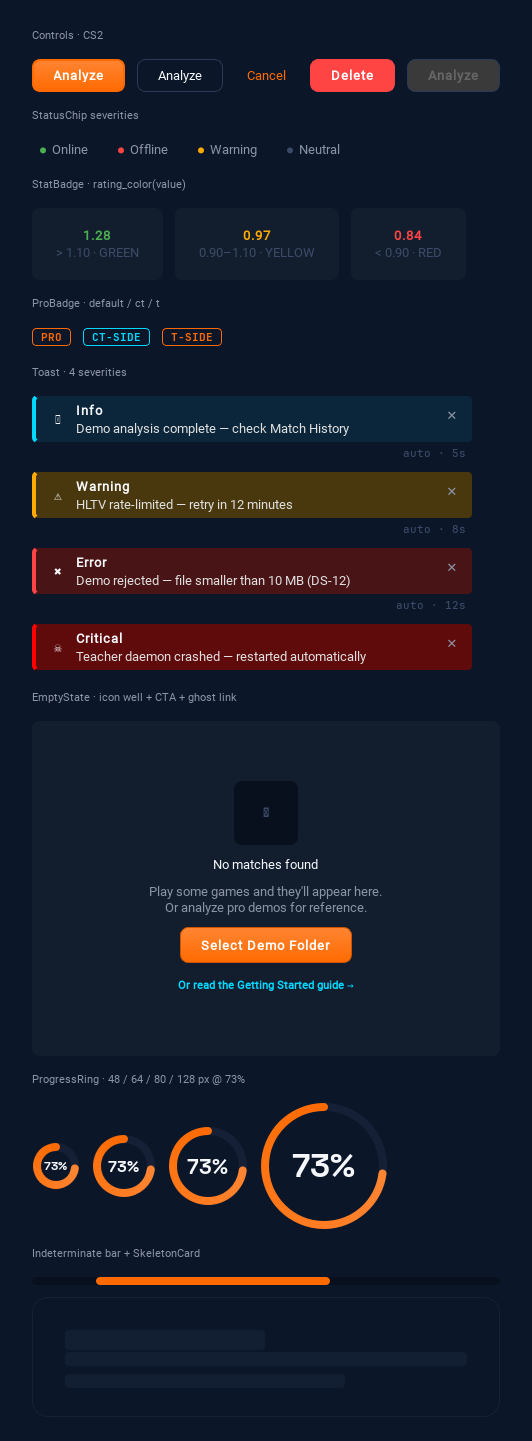
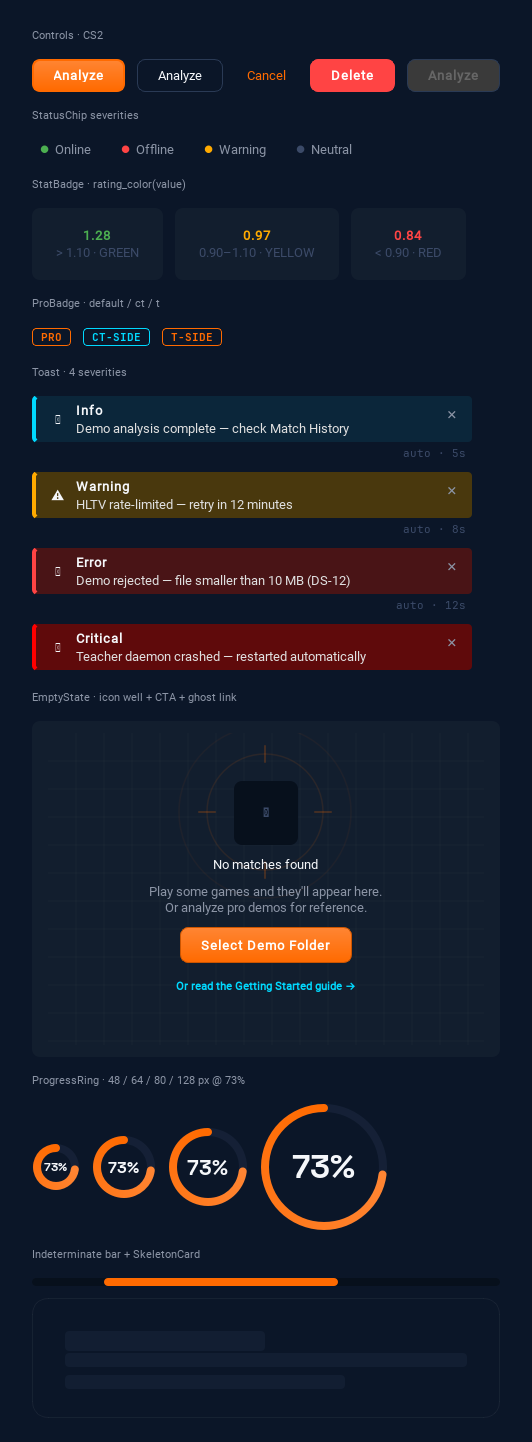
docs: aesthetic round 1 — note 20, D-31..D-33, render atlas regenerated

diff --git a/docs/doctrine/notes/20-aesthetic-round1.md b/docs/doctrine/notes/20-aesthetic-round1.md
@@ -1,0 +1,124 @@
+# Aesthetic round 1 — workbench decisions executed (2026-08-29)
+
+Mission: the operator answered the design workbench's six open questions
+(claude.ai artifact, comment loop) plus a font-bug report and a tray/slideshow
+feature request. Method: one 5-reader parallel deep-study (fonts, slideshow+
+tray, charts+empty states, ML architecture, repaint scope), then six PRs, each
+through the full gate. Final state: **2719 passed / 0 failed** on merged main.
+
+## Decisions as recorded
+
+| Q | Decision | Outcome |
+|---|---|---|
+| Q1 frost rollout | RESERVED — keep meaning | no code change, recorded |
+| Q2 accent discipline | keep loose | no code change, recorded |
+| Q3 chart voice | accent-led | PR #92 |
+| Q4 empty states | more character | PR #93 |
+| Q5 design frames | repaint to live palette | PR #96 (supersedes D-30 option B) |
+| Q6 fonts/slideshow/tray | fix + build | PRs #91, #94, #95 |
+
+## D-31 — the font system lied three ways (FIXED, PR #91)
+
+The report "only one font actually works" had three verified causes:
+
+1. **Picker saved labels, not family names**: "New Hope"/"CS Regular" match no
+   registered family (real embedded names: `NewHope`, `Counter-Strike`) — Qt
+   silently walked the fallback chain to Segoe UI, so both picks rendered
+   identically. Fixed at the picker + a legacy-alias normalizer for persisted
+   configs.
+2. **Impostor font file**: `PHOTO_GUI/JetBrainsMono-Regular.ttf`'s name table
+   said `DejaVu Sans Mono` (byte-verified). Replaced with the genuine
+   JetBrains Mono v2.304 Regular (official release, OFL-1.1, same source as
+   the other bundled weights) in both PHOTO_GUI and assets/fonts.
+3. **Dist shipped no design fonts**: `cs2_analyzer_win.spec` never bundled
+   `assets/fonts` — packaged apps fell back to Consolas/Roboto everywhere;
+   only YUPIX (pixel font) looked different. Added to datas.
+
+Lockstep tests pin all three (name-table impostor detector included).
+Registered, NOT yet fixed (part of D-32): the FONT_TYPE setting only reaches
+the generic QWidget rule — hardcoded QSS families and QPainter text ignore
+it; the appended font-size rule overrides Typography point sizes app-wide.
+
+## D-32 — the Windows packaging gap (REGISTERED, fonts part fixed)
+
+From the ML-architecture read: `cs2_analyzer_win.spec` ships **no .pt
+checkpoints, no hltv_metadata.db, no FAISS index, no coach-book dir** — the
+factory-bundle fallback in `persistence.load_nn` points at bundle paths that
+never exist, so ALL neural features silently no-op on a fresh install.
+`database.db` is a monolith mixing pro training rows with user tables, so
+"ship without the training DB" concretely means shipping a pruned monolith
+(an `.empty_backup` exists but nothing wires it). Decision needed at
+packaging time — registered, not unilaterally changed.
+
+## D-33 — the coaching chain is unwired end-to-end (REGISTERED; extends D-26)
+
+Beyond D-26's `generate_new_insights` orphan, the read confirmed the WHOLE
+insight-producing chain has no production caller: `run_ml_pipeline` (only
+caller: `ingest_user_demos`, itself uncalled), `CoachingService` (
+`get_coaching_service()` never invoked), `ExperienceBank
+.extract_experiences_from_demo` (CoachingExperience stays empty),
+`RoleThresholdStore.learn_from_pro_data`/`persist_to_db` (role classifier in
+permanent cold start → the role insight never fires), CSVMigrator seeding
+(`__main__`-only → role head Phase 5 always skips). Also: the maturity
+ladder counts TRAINING CYCLES, not demos (`total_matches_processed`
+increments once per full cycle — it can effectively never reach the
+MATURE=200 tier). The Qt coach screen reads `CoachingInsight` rows nothing
+currently writes. This is THE wiring campaign to run before/with Linux
+training (replace-not-delete: re-point ingestion or a UI action at
+CoachingService).
+
+## Architecture answers recorded (operator's shipping questions)
+
+- **What .pt files carry**: model weights + (CLI format) EMA counters and
+  training metadata; app-format checkpoints are bare state_dicts with
+  `.meta.json` sidecars + SHA-256 registry (ship them together — load
+  validates). Inference needs NO pro tick data: checkpoints (~40 MB),
+  `hltv_metadata.db` (112 KB pro cards), FAISS index + coach book (~1 MB),
+  baseline CSVs. The heavy pro rows (123 MB monolith share + 584 MB shards)
+  are training-only.
+- **User demos today**: ingest → stats/rounds/ticks stored; analysis/training
+  do NOT auto-run (see D-33). Manual trigger exists (console `ml start` /
+  POST /api/training/start): Phase 3 trains a user-specific NN on the user's
+  aggregates (models/user/latest.pt); the tick-level JEPA finetune is
+  CLI-only and currently blocked by the undefined 10-dim coaching-target
+  contract (26-RANGE-01).
+- **Noob-to-pro profile**: pieces exist (per-match history + trends,
+  SkillLatentModel 5-axis skill vector + curriculum level, maturity ladder,
+  THREE disconnected role systems, pro z-score comparisons) but no persisted
+  skill history, no role write-back, no role-conditioned curriculum, no
+  user-role→pro-archetype matching. The six-gap list in the ML read is the
+  build plan for the "role-based coaching path" the operator wants.
+
+## Shipped features (Q3/Q4/Q6 details)
+
+- **Charts speak accent** (#92): player series lead with the theme accent
+  (sparklines, home hero, utility you-bars, avg-rating stat); pro baseline
+  moved to info-cyan; endpoint "now" dots to text-primary. CT/T side-identity
+  tokens deliberately untouched (a token-value swap would have recolored
+  team semantics — the scoping read caught this). Splash status text was the
+  last old-palette literal in the app — now token-driven.
+- **Empty states** (#93): EmptyState paints a tactical motif (faint grid +
+  scope-ring crosshair on the icon well, pure QPainter, Linux
+  QGraphicsEffect ban holds); economy/momentum charts paint a resting state
+  instead of blank panels (new i18n key ×3).
+- **Wallpaper slideshow** (#94): `BACKGROUND_IMAGE="::slideshow::"` sentinel
+  rotates the active theme's wallpaper folder every 2 min with a 900 ms
+  crossfade; dashed Settings card; MACENA_UI_ANIMATIONS=0 hard-cuts; one
+  `apply_wallpaper_state` seam replaced three ad-hoc push sites. The dead
+  ENABLE_SLIDESHOW config key (read by nothing) was replaced.
+- **System tray** (#95): painted tray icon (no binary asset), menu
+  Open/AI Coach/CLI Console/Quit, close-to-tray (default on, Settings
+  toggle, balloon-once). "Chatbot only" deliberately opens the SAME instance
+  on the coach screen — and `lifecycle.ensure_single_instance` finally has a
+  production caller (it was test-only dead code; two GUI processes = two
+  session-engine daemons on one SQLite).
+- **Atlas repaint** (#96): 126 SVGs + galleries + wallpaper + stale uploads
+  tokens copy; 4-phase mechanical plan with the frame-32 CSGO/CS16 carve-out
+  and the dual-role #3a3a5a attribute split; zero old literals survive the
+  acceptance grep; eyeballed 32/31/01. D-30 fully resolved.
+
+## Render atlas
+
+`docs/ux-audit/renders-atlas` regenerated in lockstep with this note — 17
+screens changed (genuine JetBrains Mono alone re-renders every mono caption;
+plus accent charts, motif empty states, slideshow card).

diff --git a/docs/doctrine/DOCTRINE.md b/docs/doctrine/DOCTRINE.md
@@ -296,6 +296,16 @@ Entries from verification round 2 (evidence in note 18; asterisks = fixed):
   training campaign, not before (network + 250+ pin changes could destabilize that env).
   Until then the sweep's one red is known, named noise — never skip-list it.
 
+> **Status ledger (2026-08-29 late, aesthetic round 1 — see
+> [notes/20-aesthetic-round1.md](notes/20-aesthetic-round1.md)):** operator
+> answered workbench Q1–Q6. FIXED: D-31 fonts (#91), Q3 charts (#92), Q4
+> empty states (#93), Q6 slideshow (#94) + tray/single-instance (#95), Q5
+> atlas repaint (#96 — D-30 fully resolved, launch palette lives in git
+> history). NEW REGISTERED: D-32 packaging gap (dist ships no models/
+> knowledge/FAISS/hltv db; fonts part fixed), D-33 coaching chain unwired
+> end-to-end (extends D-26; maturity counter counts cycles not demos).
+> Full gate on merged main: 2719 passed / 0 failed.
+
 Entries from the design-folder study (evidence in note 19):
 
 - **D-30** Design-atlas staleness (partially fixed): gemma3→gemma4 fixed in frames 07/19
@@ -305,10 +315,32 @@ Entries from the design-folder study (evidence in note 19):
   as a class (all sampled concepts still true; the 5 RAP anchors point at P9-01 shim
   tombstones instead of `experimental/rap_coach/`); `cs2/uploads/design-tokens.json` is a
   dead snapshot claiming the reversed flow; stray `README-8252c0ae.md` in uploads.
-  Operator chose option B (2026-08-29, executed): palette truth note added to
-  design/README in all 3 languages; Themes tables + Tailwind snippets corrected to the
-  live token values. Frames stay in the launch palette as the historical source;
-  anchor re-pinning and the uploads snapshot remain registered-only.
+  Operator chose option B (2026-08-29, executed), then SUPERSEDED it the same day with
+  the full repaint (workbench Q5, PR #96): all 126 SVGs + galleries now carry the live
+  palette; the stale uploads tokens snapshot was replaced with the canonical file;
+  launch-palette originals live in git history. RESOLVED. Anchor re-pinning (~40
+  file:line labels inside the diagrams) remains registered-only.
+
+Entries from aesthetic round 1 (evidence in note 20; asterisks = fixed):
+
+- ***D-31** Font system honesty: picker saved display labels that match no registered
+  family (silent Segoe UI fallback); `PHOTO_GUI/JetBrainsMono-Regular.ttf` was an
+  impostor (name table: DejaVu Sans Mono); the win spec never bundled assets/fonts.
+  All three fixed (#91) with name-table lockstep tests. Residue registered: FONT_TYPE
+  only reaches the generic QWidget rule (hardcoded QSS families + QPainter text ignore
+  it); the appended px rule overrides Typography point sizes.
+- **D-32** Windows packaging gap: the spec ships no .pt checkpoints, no
+  hltv_metadata.db, no FAISS index, no coach-book dir — persistence.load_nn's
+  factory-bundle fallback points at paths the bundle never contains, so neural
+  features silently no-op on fresh installs; database.db is a pro+user monolith with
+  an unwired .empty_backup. Decide at packaging time.
+- **D-33** Coaching chain unwired end-to-end (extends D-26): run_ml_pipeline /
+  CoachingService / ExperienceBank.extract_experiences_from_demo /
+  RoleThresholdStore.learn_from_pro_data / CSVMigrator seeding all lack production
+  callers — the coach screen reads CoachingInsight rows nothing writes; role
+  classification is in permanent cold start; the maturity counter increments per
+  TRAINING CYCLE, not per demo (MATURE=200 effectively unreachable). The wiring
+  campaign to pair with Linux training.
 
 ## 4. The AI roadmap (paper-grounded, invariant-filtered)
 
